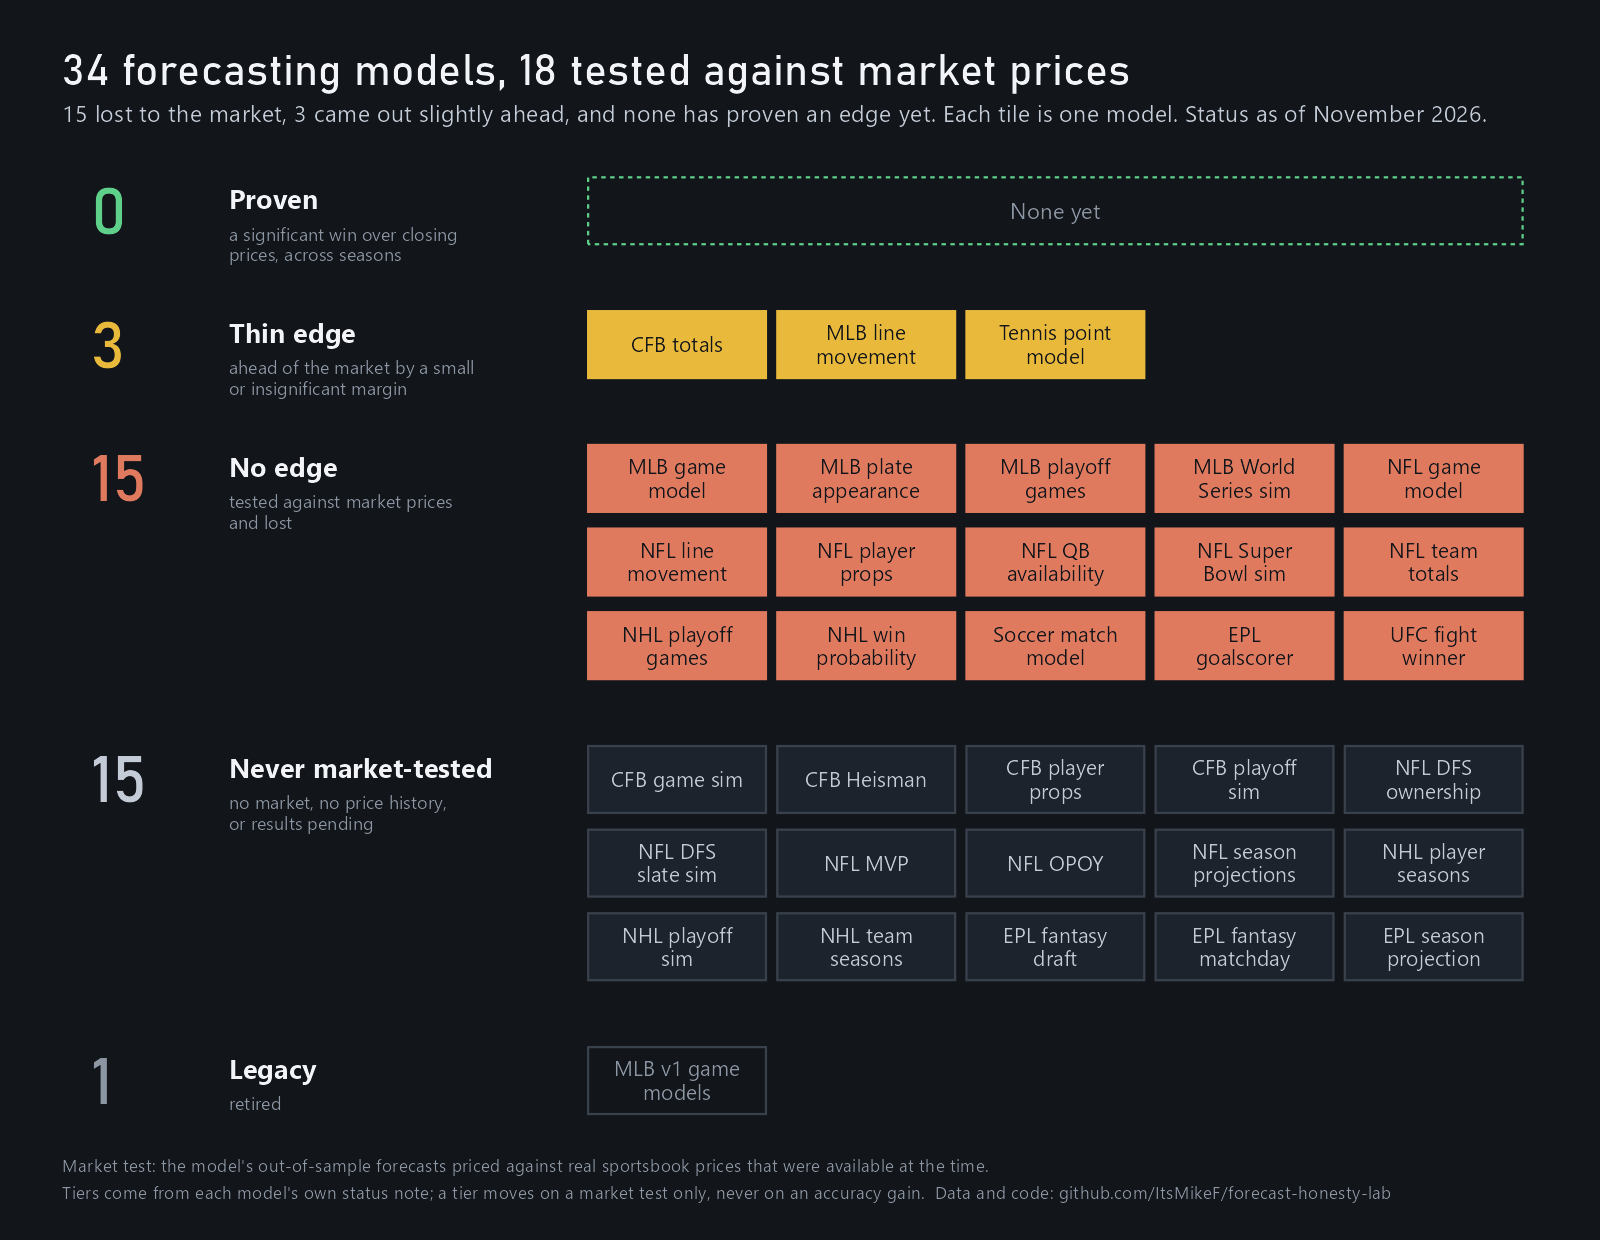
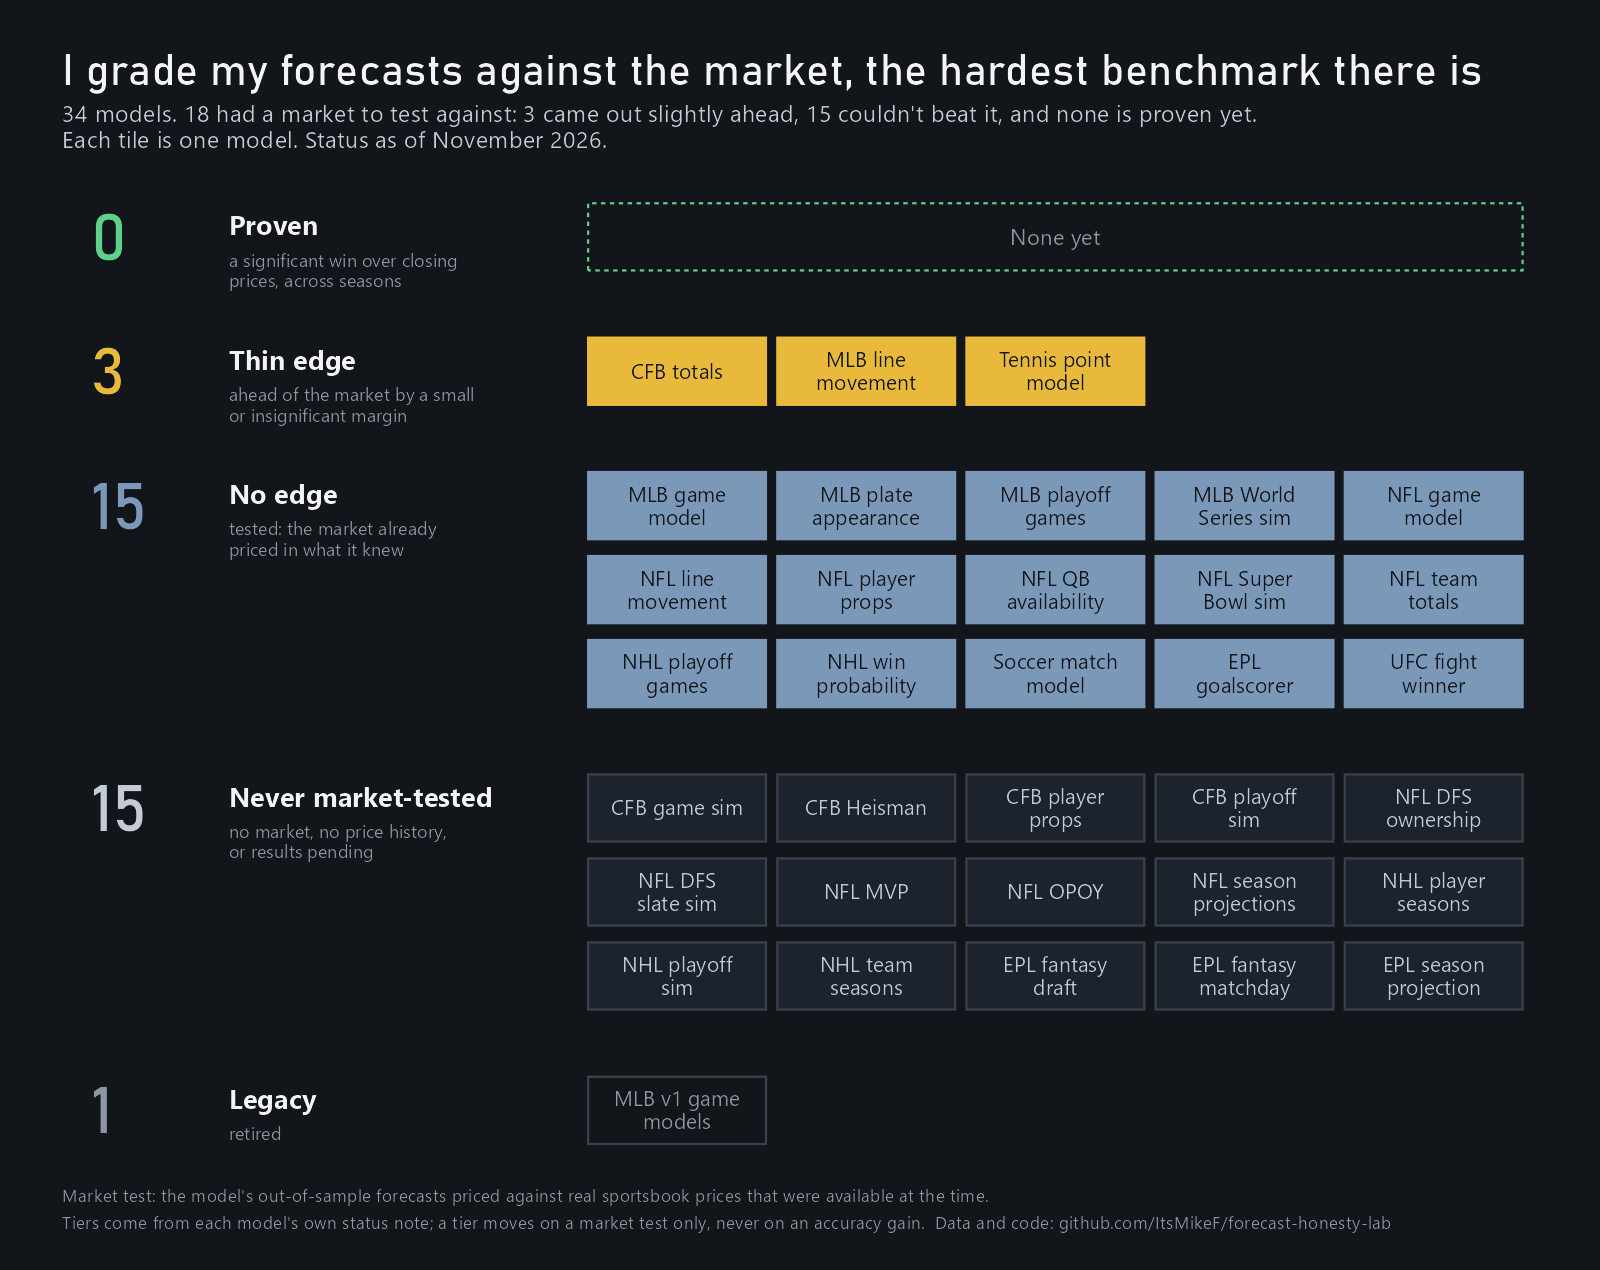
Reframe the scorecard: method-first headline, neutral colour for "no edge"
Same 34 models, same counts, same table rows and lessons. "No edge" is a
finding, not an error, so its tiles move from coral to a neutral slate, and
the chart title and README intro lead with the method (grading every forecast
against market prices) instead of the loss count.

diff --git a/README.md b/README.md
@@ -1,10 +1,12 @@
 # Forecast honesty lab
 
-**34 forecasting models. 18 tested against real market prices. 15 lost.**
+**I grade my forecasts against the market, the hardest benchmark there is.** Of 34 forecasting
+models, 18 had a market to test against: 3 came out slightly ahead, 15 couldn't beat it, and none is
+proven yet.
 
-This repo is the scorecard for every forecasting model I've documented: how each one did when its
-forecasts were priced against the market, losers included. It also covers the eight lessons the
-losers taught me about testing a forecast honestly.
+This repo is the scorecard for every forecasting model I've documented, with every result
+published, misses included. It also covers the eight lessons those tests taught me about checking
+a forecast honestly.
 
 ![Scorecard: 34 forecasting models grouped by market-test result. 0 proven, 3 thin edge, 15 no edge, 15 never market-tested, 1 legacy.](assets/scorecard.png)
 
@@ -42,7 +44,7 @@ forecast it would replace, not a moving average.
 | **MLB line movement** | Which way a game's price moves from open to close | 668 games, 2023–26, one forecast per day | +2.4% (t 0.65); beat the closing price on 79% of games (+2.40 pts) | Ranking beat thresholds: taking only the top forecast each day roughly doubled the closing-price gain (+1.27 → +2.40 pts). |
 | **Tennis point model** | Match winners, built up from serve and return points (point → game → set → match) | 24,368 matches, 2013–25; 18,161 forecasts at a 3% edge | +1.9% at the best closing price (t 1.65, not significant) | A Masters 1000 slice reads +11.2% (t 4.97), but it was found by slicing, so the 2026 season decides it. |
 
-### No edge (15): tested against market prices and lost
+### No edge (15): tested, and the market already priced in what they knew
 
 | Model | Forecasts | Tested on | Result | What it taught me |
 |---|---|---|---|---|
@@ -87,7 +89,7 @@ forecast it would replace, not a moving average.
 </details>
 <!-- scorecard:end -->
 
-## What the losers taught me
+## What the tests taught me
 
 ### 1. The model has to be as-of, not just the data
 My MLB plate-appearance model first tested at **+5.97% (t 2.52)**, which would have been my first
@@ -103,7 +105,8 @@ good calibration can itself be a symptom of a leak.
 My NFL team-totals model is **8.3% more accurate** than a three-year baseline, on all nine stats it
 forecasts. Its correlation with actual points is still **0.321, against the market's 0.463**.
 
-My World Series simulator got more accurate after a genuine roster fix, and it still lost. A model
+My World Series simulator got more accurate after a genuine roster fix, and it still couldn't beat
+the market. A model
 can beat every baseline you choose and still know nothing the market doesn't.
 
 ### 3. Every new feature has to beat random noise
